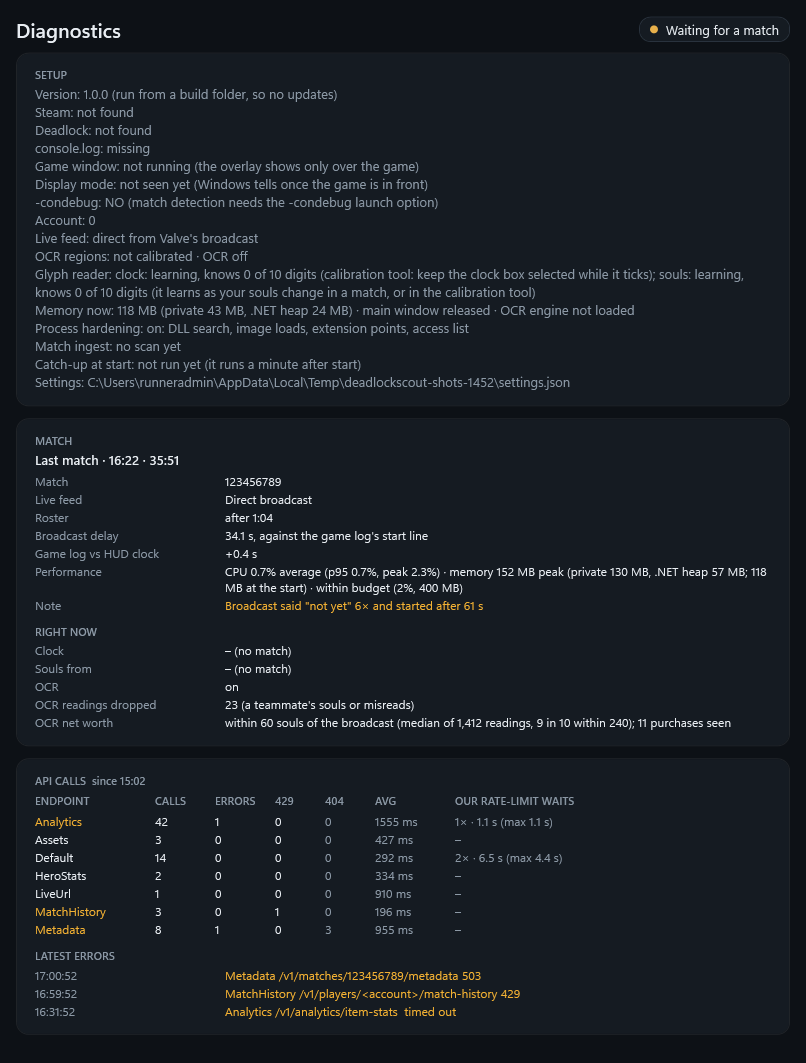
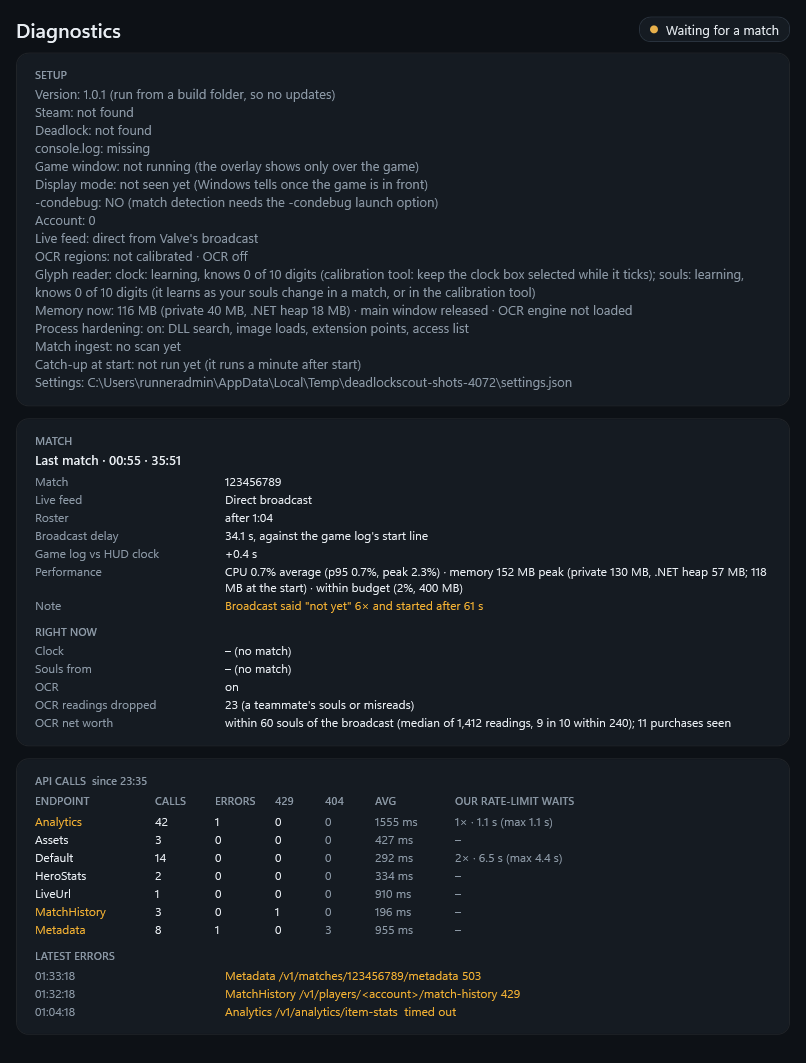
1.0.2: a timed-out live/url no longer ends the match's feed silently (#203)
* Live feed: a timed-out live/url is retried, not taken for a stop

Nov 18, fourth match: deadlock-api's live/url timed out. HttpClient
reports its timeout as a TaskCanceledException, which the resolver and
the feed's pump both read as "stop", so the feed ended without a log
line, the roster wait timed out empty and the session still said Live
with every card blank (the overlay's pace ran on OCR).

- BroadcastUrlResolver retries a timeout like any failure; only the
  caller's token stops it.
- The feed's pump logs any end it was not asked for.
- MatchSession: an empty roster starts the feed again, three times a
  minute apart, with the status saying so; if it never comes the
  session goes on for your OCR pace and says the broadcast was not
  reached instead of Live.

Claude-Session: https://claude.ai/code/session_01LSDkBn23Na5vMSKWLtGadZ

* Update app screenshots

---------

diff --git a/src/DeadlockScout.App/Services/MatchSession.cs b/src/DeadlockScout.App/Services/MatchSession.cs
@@ -176,6 +176,10 @@ public sealed class MatchSession : IDisposable
         });
     }
 
+    /// <summary>How often an empty roster (the broadcast never reached) starts the feed again, and how far apart.</summary>
+    private const int RosterRetries = 3;
+    private static readonly TimeSpan RosterRetryDelay = TimeSpan.FromSeconds(60);
+
     private async Task RunAsync(MatchContext ctx, CancellationToken ct)
     {
         try
@@ -190,7 +194,20 @@ public sealed class MatchSession : IDisposable
             _state.AssumedDelay = ctx.Spectating ? TimeSpan.Zero : TimeSpan.FromSeconds(Math.Max(0, timers.BroadcastDelaySeconds));
             if (_clockAnchor is { } anchor) _state.Clock.SetAnchor(anchor);
             var roster = await _feed.WaitForRosterAsync(ctx, ct);
-            _diagnostics.RosterReceived(DateTimeOffset.UtcNow);
+            // No player at all: the broadcast was never reached (on Nov 18 deadlock-api's live/url timed out and the match
+            // went on as "Live" with every card empty). Say so and start the feed again, a few times, a minute apart (1.0.1).
+            for (int retry = 1; roster.Players.Count == 0 && retry <= RosterRetries; retry++)
+            {
+                _log.LogWarning("No roster for match {MatchId}: the broadcast could not be reached; trying again ({Retry} of {Retries})", ctx.MatchId, retry, RosterRetries);
+                _state.Status.Phase = $"Broadcast not reached yet (deadlock-api did not answer), trying again ({retry} of {RosterRetries})";
+                await Task.Delay(RosterRetryDelay, ct);
+                _feed.Stop(ctx.MatchId); // the next wait starts a fresh feed
+                roster = await _feed.WaitForRosterAsync(ctx, ct);
+            }
+            // Still none: go on without one, so your own pace keeps running on OCR, but never call that "Live".
+            bool noRoster = roster.Players.Count == 0;
+            if (noRoster) _log.LogWarning("No roster for match {MatchId} after {Retries} retries; going on with OCR only", ctx.MatchId, RosterRetries);
+            else _diagnostics.RosterReceived(DateTimeOffset.UtcNow);
             _state.Status.Phase = "Roster received, scouting";
             // Spectating someone else's match: nobody in it is you, so the panels about your own game stay empty and the
             // pace board covers all twelve players.
@@ -201,7 +218,8 @@ public sealed class MatchSession : IDisposable
             var rows = await _scouting.ScoutAsync(roster, ctx.MyAccountId, ct);
             _state.SetRoster(roster, rows, ctx.MyAccountId, _assets);
             _state.ScoutVisibleUntil = DateTimeOffset.UtcNow + TimeSpan.FromSeconds(_settings.CurrentValue.Overlay.ScoutAutoSeconds);
-            _state.Status.Phase = ctx.Spectating ? "Spectating" : "Live";
+            _state.Status.Phase = noRoster ? "No broadcast for this match: scouting and enemy pace are off; your own pace runs on OCR"
+                : ctx.Spectating ? "Spectating" : "Live";
 
             // Curves for the lobby's own rank when watching, not yours.
             int? badge = ctx.Spectating ? AverageBadge(roster) : me?.Rank;

diff --git a/tests/DeadlockScout.Tests/Api/LiveFeedTests.cs b/tests/DeadlockScout.Tests/Api/LiveFeedTests.cs
@@ -66,6 +66,40 @@ public class LiveFeedTests
         Assert.True(ticks.Select(t => t.GameTime).Zip(ticks.Skip(1).Select(t => t.GameTime)).All(p => p.First <= p.Second));
     }
 
+    /// <summary>A stream whose first read dies of a timeout (as live/url did on Nov 18) and whose next one works.</summary>
+    private sealed class TimeoutThenFixtureStream : ILiveEventStream
+    {
+        public int Reads;
+        public async IAsyncEnumerable<LiveEventDto> ReadAsync(long matchId, [System.Runtime.CompilerServices.EnumeratorCancellation] CancellationToken ct)
+        {
+            if (++Reads == 1) throw new TaskCanceledException("HttpClient.Timeout", new TimeoutException());
+            await foreach (var e in new FixtureStream().ReadAsync(matchId, ct)) yield return e;
+        }
+    }
+
+    private sealed class NotListedApi : ScoutingServiceTests.FakeApiBase
+    {
+        public override Task<IReadOnlyList<PlayerHeroStats>> HeroStatsAsync(IEnumerable<uint> accountIds, CancellationToken ct) => throw new NotSupportedException();
+        public override Task<IReadOnlyList<SharedHistory>> EnemyStatsAsync(uint accountId, CancellationToken ct) => throw new NotSupportedException();
+        public override Task<IReadOnlyList<SharedHistory>> MateStatsAsync(uint accountId, CancellationToken ct) => throw new NotSupportedException();
+        public override Task<IReadOnlyList<PlayerRank>> RanksAsync(IEnumerable<uint> accountIds, CancellationToken ct)
+            => Task.FromResult<IReadOnlyList<PlayerRank>>(Array.Empty<PlayerRank>());
+        public override Task<ActiveMatch?> ActiveMatchAsync(long matchId, CancellationToken ct) => Task.FromResult<ActiveMatch?>(null);
+    }
+
+    [Fact]
+    public async Task A_feed_that_died_of_a_timeout_starts_again_after_Stop()
+    {
+        var stream = new TimeoutThenFixtureStream();
+        var feed = new LiveMatchFeed(stream, new NotListedApi(), new ScoutingServiceTests.MemoryCacheStub(), rosterTimeout: TimeSpan.FromMilliseconds(300));
+        var first = await feed.WaitForRosterAsync(Ctx, new CancellationTokenSource(TimeSpan.FromSeconds(10)).Token);
+        Assert.Empty(first.Players);                                       // nothing reached, and not listed in matches/active
+        feed.Stop(Ctx.MatchId);                                            // what the match session does before asking again
+        var second = await feed.WaitForRosterAsync(Ctx, new CancellationTokenSource(TimeSpan.FromSeconds(10)).Token);
+        Assert.NotEmpty(second.Players);
+        Assert.Equal(2, stream.Reads);
+    }
+
     [Fact]
     public async Task Roster_falls_back_to_active_matches_and_takes_ranks_from_the_rank_endpoint()
     {

diff --git a/tests/DeadlockScout.Tests/Api/DirectBroadcastTests.cs b/tests/DeadlockScout.Tests/Api/DirectBroadcastTests.cs
@@ -242,6 +242,23 @@ public class DirectBroadcastTests
     }
 
     [Fact]
+    public async Task A_timed_out_live_url_is_asked_again_not_taken_for_a_stop()
+    {
+        // HttpClient's 30 s timeout surfaces as a TaskCanceledException; on Nov 18 that ended the match's feed silently.
+        int n = 0;
+        var flaky = new UrlApi(_ => ++n == 1
+            ? Task.FromException<string>(new TaskCanceledException("The request was canceled due to the configured HttpClient.Timeout of 30 seconds elapsing.", new TimeoutException()))
+            : Task.FromResult("http://dist1-ord1.steamcontent.com/tv/99_1"));
+        var r = new BroadcastUrlResolver(flaky, new ScoutingServiceTests.MemoryCacheStub()) { Backoff = _ => TimeSpan.Zero };
+        Assert.Equal("http://dist1-ord1.steamcontent.com/tv/99_1", await r.ResolveAsync(99, default));
+        Assert.Equal(2, flaky.Calls);
+
+        // The caller's own cancellation still stops it at once.
+        var never = new UrlApi(_ => Task.FromException<string>(new OperationCanceledException()));
+        await Assert.ThrowsAnyAsync<OperationCanceledException>(() => new BroadcastUrlResolver(never, new ScoutingServiceTests.MemoryCacheStub()).ResolveAsync(99, new CancellationToken(true)));
+    }
+
+    [Fact]
     public void Relay_is_read_over_https()
     {
         Assert.Equal("https://dist1-ord1.steamcontent.com/tv/99_1", DirectBroadcastStream.RelayUrl("http://dist1-ord1.steamcontent.com/tv/99_1"));

diff --git a/src/DeadlockScout.Api/Live/BroadcastUrlResolver.cs b/src/DeadlockScout.Api/Live/BroadcastUrlResolver.cs
@@ -43,7 +43,10 @@ public sealed class BroadcastUrlResolver
                 _log.LogWarning("Match {MatchId} has no live broadcast: {Message}", matchId, ex.Message);
                 return null;
             }
-            catch (Exception ex) when (ex is not OperationCanceledException)
+            // HttpClient reports its own timeout as a cancellation (TaskCanceledException over a TimeoutException). Only the
+            // caller's token means stop: a timed-out live/url is a failure like any other and is asked again (1.0.1; on
+            // Nov 18 one timeout ended the whole match's feed without a word).
+            catch (Exception ex) when (ex is not OperationCanceledException || !ct.IsCancellationRequested)
             {
                 _log.LogWarning(ex, "live/url for match {MatchId} failed (attempt {Attempt})", matchId, attempt + 1);
                 if (attempt + 1 < MaxAttempts) await Task.Delay(Backoff(attempt + 1), ct).ConfigureAwait(false);

diff --git a/src/DeadlockScout.Api/Live/LiveMatchFeed.cs b/src/DeadlockScout.Api/Live/LiveMatchFeed.cs
@@ -255,7 +255,8 @@ public sealed class LiveMatchFeed : ILiveMatchFeed
                         Handle(e, generation);
                     }
                 }
-                catch (OperationCanceledException) { }
+                catch (OperationCanceledException) when (ct.IsCancellationRequested) { }
+                // A timeout is a cancellation too, but nobody asked for it: say so (1.0.1).
                 catch (Exception ex) { _log.LogError(ex, "Live feed for match {MatchId} stopped", matchId); }
             }, ct);
         }
